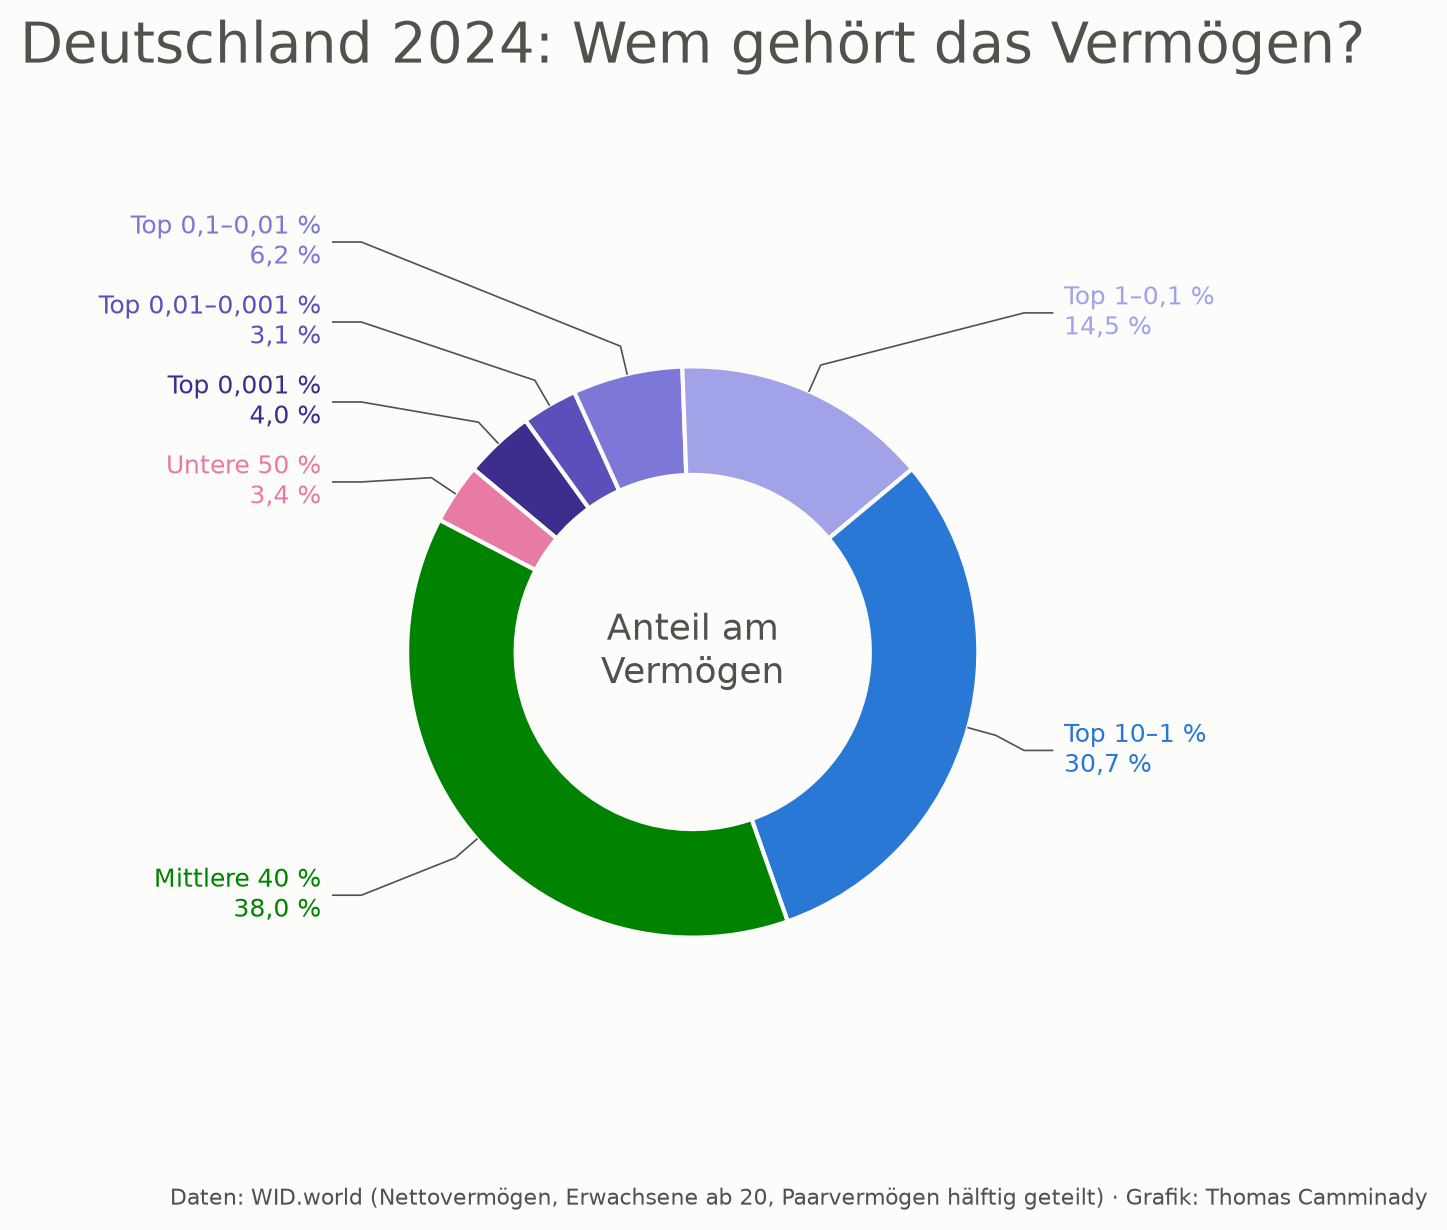
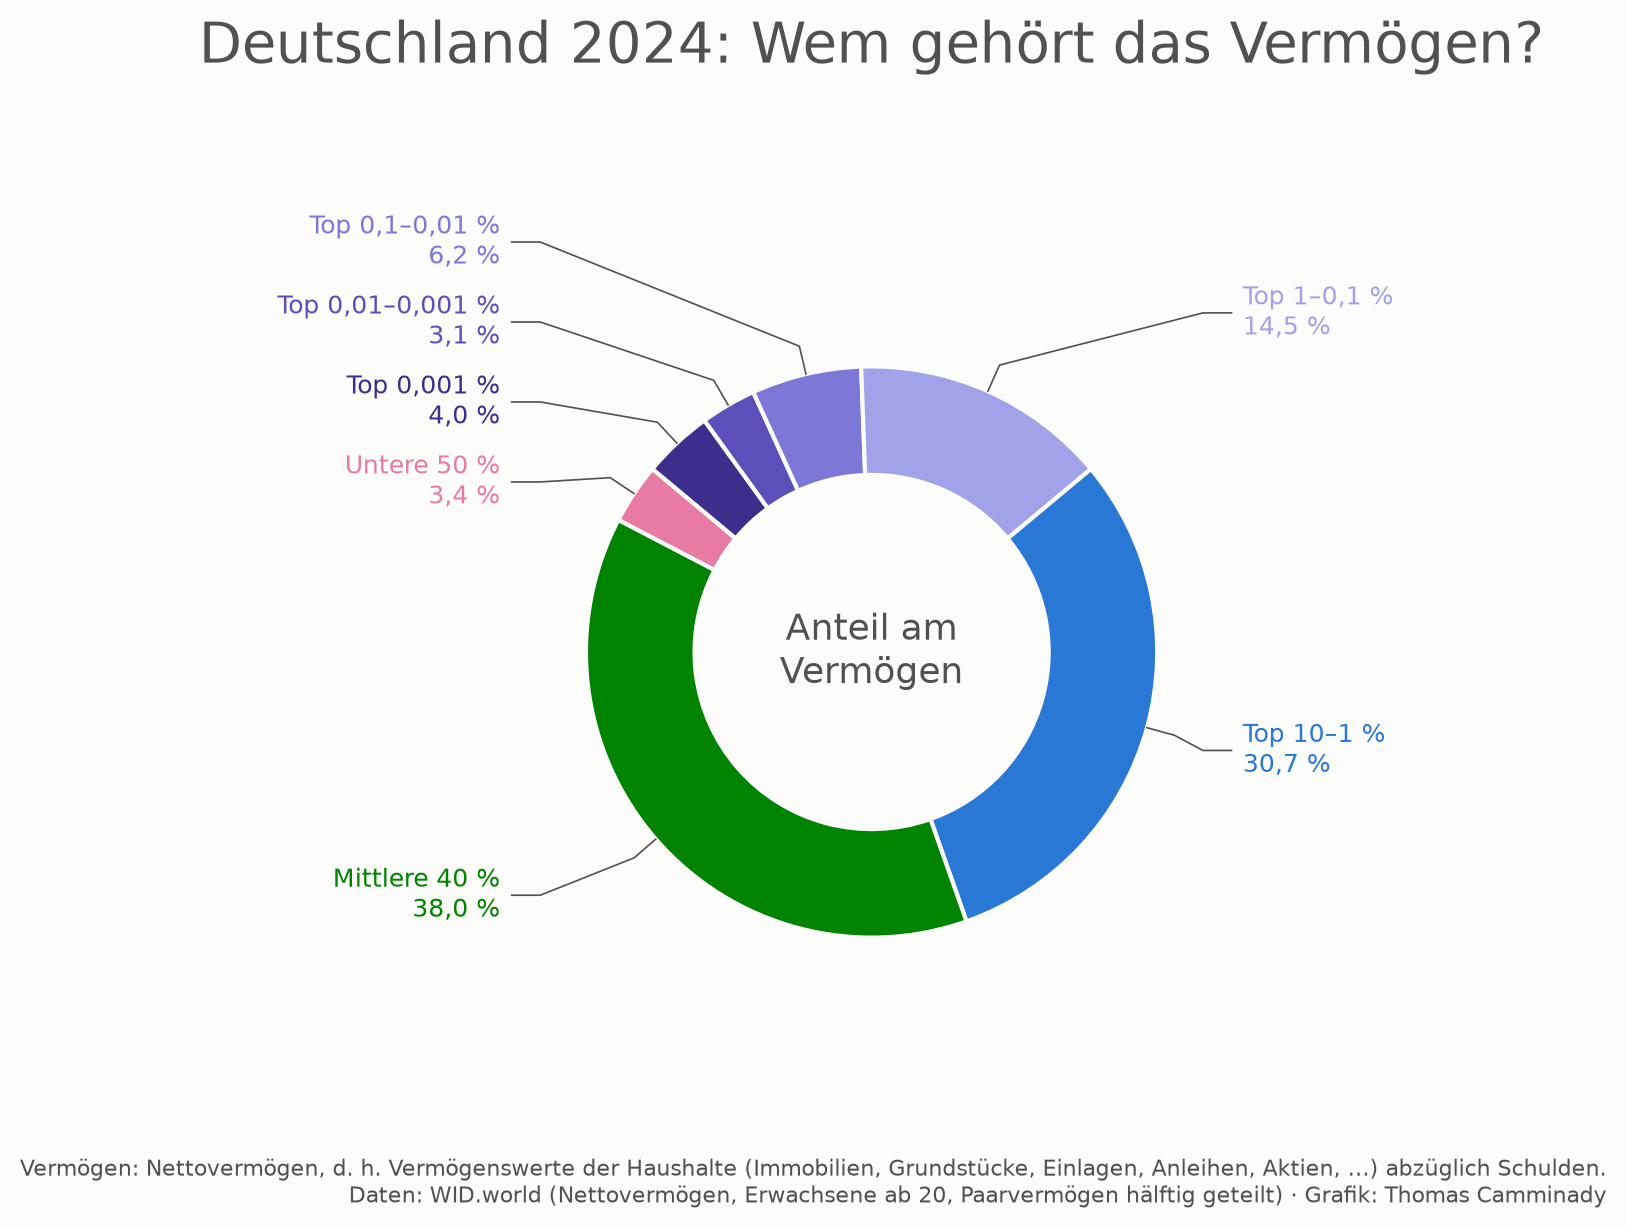
Define "wealth" in every chart's footer (English and German)
The shared footer now starts with WID's definition of net personal wealth
("households' assets (housing, land, deposits, bonds, equities, ...) minus
their debts" / "Vermögenswerte der Haushalte ... abzüglich Schulden"),
followed by the data source and author. The balance chart wraps it to stay
clear of the wedge; the percentile charts reserve room for the longer
footer.

diff --git a/src/wid/plotting/balance.py b/src/wid/plotting/balance.py
@@ -6,6 +6,7 @@ the poorest half's circle has 50,000 times the area of the richest 0.001%'s.
 """
 
 import math
+import textwrap
 from pathlib import Path
 
 import matplotlib.pyplot as plt
@@ -13,7 +14,7 @@ import polars as pl
 from matplotlib.patches import Circle, Polygon
 
 from wid.plotting.donut_chart import MAGENTA, VIOLET
-from wid.plotting.style import INK_SECONDARY, SOURCE_NOTE, SURFACE
+from wid.plotting.style import INK_SECONDARY, SOURCE_NOTE, SURFACE, WEALTH_NOTE
 
 RICH_PCT = 0.001  # richest x% of adults
 POOR_PCT = 50.0  # poorest x% of adults
@@ -35,6 +36,7 @@ DPI = 130
 TITLE_SIZE = 40
 TEXT_SIZE = 28
 FOOTER_SIZE = 18
+FOOTER_WRAP = 64  # characters per line of the wealth definition
 BEAM_WIDTH = 5.0
 LINE_WIDTH = 2.5
 SCALE_GREY = "#8c8a85"  # beam and wedge: lighter than the text grey
@@ -138,7 +140,10 @@ def plot_balance(bins: pl.DataFrame, adults: int, year: int, out_path: Path) -> 
     ax.text(
         x_max,
         -FULCRUM_HEIGHT,
-        SOURCE_NOTE.replace(" · ", "\n"),
+        # The wealth definition is wrapped so the footer stays right of the wedge.
+        textwrap.fill(WEALTH_NOTE, FOOTER_WRAP)
+        + "\n"
+        + SOURCE_NOTE.removeprefix(WEALTH_NOTE + "\n").replace(" · ", "\n"),
         ha="right",
         va="bottom",
         fontsize=FOOTER_SIZE,

diff --git a/src/wid/plotting/style.py b/src/wid/plotting/style.py
@@ -7,12 +7,25 @@ INK_SECONDARY = "#52514e"
 GRID = "#e4e3df"
 SURFACE = "#fcfcfb"
 
+LABEL_FONTSIZE = 9
+
+# Footer of every chart: what "wealth" means here (WID's definition of net
+# personal wealth), then the data source and author.
+WEALTH_NOTE = (
+    "Wealth: net personal wealth, i.e. households' assets (housing, land, "
+    "deposits, bonds, equities, …) minus their debts."
+)
+WEALTH_NOTE_DE = (
+    "Vermögen: Nettovermögen, d. h. Vermögenswerte der Haushalte (Immobilien, "
+    "Grundstücke, Einlagen, Anleihen, Aktien, …) abzüglich Schulden."
+)
 SOURCE_NOTE = (
+    f"{WEALTH_NOTE}\n"
     "Data: WID.world (net personal wealth, equal-split adults 20+)"
     " · Chart: Thomas Camminady"
 )
-LABEL_FONTSIZE = 9
 SOURCE_NOTE_DE = (
+    f"{WEALTH_NOTE_DE}\n"
     "Daten: WID.world (Nettovermögen, Erwachsene ab 20, Paarvermögen hälftig geteilt)"
     " · Grafik: Thomas Camminady"
 )

diff --git a/src/wid/plotting/percentile_bars.py b/src/wid/plotting/percentile_bars.py
@@ -272,7 +272,7 @@ def plot_percentile_bars(df_pct: pl.DataFrame, year: int, out_path: Path) -> Non
         fontsize=font_size(TITLE_SCALE),
         pad=12,
     )
-    fig.tight_layout(rect=(0, 0.03, 1, 1))
+    fig.tight_layout(rect=(0, 0.07, 1, 1))  # room for the footer
     save(fig, out_path)
 
 
@@ -319,7 +319,7 @@ def plot_percentile_bars_zoom(
         ax.set_title(
             title, color=INK_SECONDARY, fontsize=font_size(PANEL_TITLE_SCALE), pad=10
         )
-    fig.tight_layout(rect=(0, 0.015, 1, 1), h_pad=3)
+    fig.tight_layout(rect=(0, 0.035, 1, 1), h_pad=3)  # room for the footer
     save(fig, out_path)
 
 
